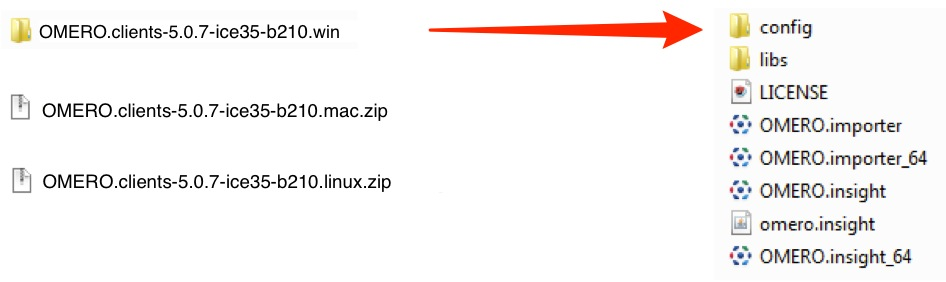
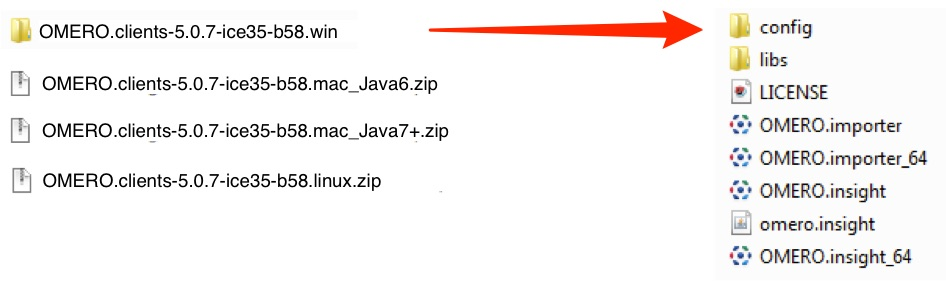
Updating screenshots to show 2 MacOSX Java versions and add note to text

Changed region(s): [[0.0, 0.2553, 0.4905, 0.5106], [0.0307, 0.5957, 0.4292, 0.6809], [0.0307, 0.0851, 0.3679, 0.1418]]

diff --git a/getting-started-5.html b/getting-started-5.html
@@ -56,6 +56,22 @@ your standard login for the institution&#8217;s networked computers.</p>
 <div class="line"><br /></div> <!-- end #line -->
 </div> <!-- end #line-block -->
 
+<div class="line-block">
+<div class="line"><br /></div> <!-- end #line -->
+</div> <!-- end #line-block -->
+
+<div class="note">
+<p class="note-title">Note</p>
+<p class="note-text">Mac OS X users should download the clients matching their installed Java version.</p>
+<p class="note-text">With MacOS X 10.7 and later, install the latest Java Runtime Environment (JRE) and use the Java 7+ downloads.</p>
+<p class="note-text">With MacOS X 10.6 you can only use the Java 6 download.</p>
+</div><!-- End note -->
+
+<div class="line-block">
+<div class="line"><br /></div>
+<div class="line"><br /></div>
+</div>
+
 </li>
 
 <li><p class="first">Expand OMERO.insight client archive.</p>
